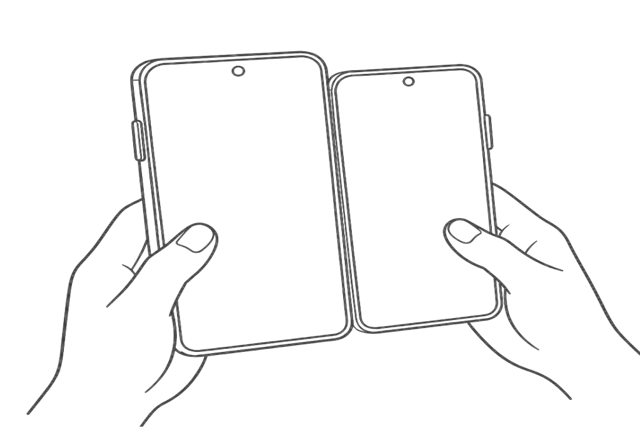
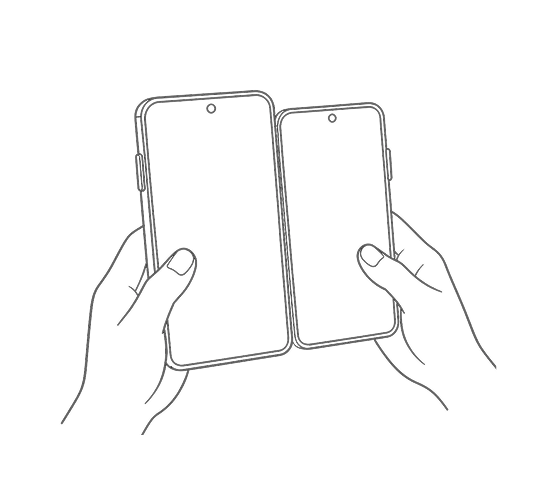
Equal-size guide images and PWA install support
- Swap in the two 540x480 guide frames; scale by width and remaining height
- Add manifest, offline service worker, and app icons
- Remove the unused guide-line.svg

diff --git a/index.html b/index.html
@@ -5,6 +5,11 @@
   <meta name="viewport" content="width=device-width, initial-scale=1, viewport-fit=cover">
   <meta name="theme-color" content="#22263a">
   <title>Galaxy Specs</title>
+  <link rel="manifest" href="manifest.webmanifest">
+  <link rel="apple-touch-icon" href="icons/apple-touch-icon.png">
+  <meta name="mobile-web-app-capable" content="yes">
+  <meta name="apple-mobile-web-app-capable" content="yes">
+  <meta name="apple-mobile-web-app-title" content="Galaxy Specs">
   <link rel="stylesheet" href="style.css">
 </head>
 <body>
@@ -21,17 +26,18 @@
       <div class="guide-track" id="guideTrack">
         <div class="guide-slide">
           <div class="guide-art">
-            <div class="guide-phone-box">
-              <img class="guide-phone" src="assets/guide-phone.png" alt="">
+            <div class="guide-frame">
+              <img src="assets/guide-phone.png" alt="">
               <img class="guide-glow" src="assets/guide-glow.svg" alt="">
-              <img class="guide-line" src="assets/guide-line.svg" alt="">
             </div>
           </div>
           <p class="guide-caption">Tap to see each spec,<br>one by one.</p>
         </div>
         <div class="guide-slide">
           <div class="guide-art">
-            <img class="guide-hands" src="assets/guide-hands.png" alt="">
+            <div class="guide-frame">
+              <img src="assets/guide-hands.png" alt="">
+            </div>
           </div>
           <p class="guide-caption">Place two phones<br>side by side to compare.</p>
         </div>

diff --git a/sw.js b/sw.js
@@ -1,0 +1,46 @@
+// Cache-first with background refresh: the app opens instantly and works offline,
+// and a new deploy shows up on the next open. Bump CACHE to drop old files at once.
+const CACHE = 'galaxy-specs-v1';
+const SHELL = [
+  './',
+  'index.html',
+  'style.css',
+  'script.js',
+  'specs.js',
+  'manifest.webmanifest',
+  'assets/guide-phone.png',
+  'assets/guide-hands.png',
+  'assets/guide-glow.svg',
+  'icons/icon-192.png',
+  'icons/icon-512.png',
+  'icons/apple-touch-icon.png',
+];
+
+self.addEventListener('install', (event) => {
+  event.waitUntil(caches.open(CACHE).then((cache) => cache.addAll(SHELL)).then(() => self.skipWaiting()));
+});
+
+self.addEventListener('activate', (event) => {
+  event.waitUntil(
+    caches.keys()
+      .then((keys) => Promise.all(keys.filter((key) => key !== CACHE).map((key) => caches.delete(key))))
+      .then(() => self.clients.claim()),
+  );
+});
+
+self.addEventListener('fetch', (event) => {
+  const { request } = event;
+  if (request.method !== 'GET' || new URL(request.url).origin !== self.location.origin) return;
+
+  event.respondWith(caches.open(CACHE).then(async (cache) => {
+    // ignoreSearch so ?device=s26 opens the cached page too
+    const cached = await cache.match(request, { ignoreSearch: true });
+    const fresh = fetch(request)
+      .then((response) => {
+        if (response.ok) cache.put(request, response.clone());
+        return response;
+      })
+      .catch(() => cached);
+    return cached || fresh;
+  }));
+});

diff --git a/style.css b/style.css
@@ -164,13 +164,11 @@ html, body {
   padding: 24px 0;
   container-type: size; /* lets the illustration scale to the height that is left */
 }
-/* Phone outline with the sun and horizon drawn over it; offsets are the Figma
-   positions inside the 210x316 phone box, as percentages so the box can scale. */
-.guide-phone-box { position: relative; height: min(316px, 100cqh); aspect-ratio: 210 / 316; }
-.guide-phone { width: 100%; height: 100%; object-fit: contain; }
-.guide-glow { position: absolute; left: 30.5%; top: 24.7%; width: 38.1%; animation: glow 3.2s ease-in-out infinite; }
-.guide-line { position: absolute; left: 24.3%; top: 74.7%; width: 50.5%; }
-.guide-hands { width: min(84vw, 303px); max-height: 100cqh; object-fit: contain; }
+/* Both illustrations are 540x480 frames, so the two slides keep the same footprint.
+   The sun glow is positioned over the phone in frame percentages. */
+.guide-frame { position: relative; width: min(100cqw, 540px, calc(100cqh * 540 / 480)); aspect-ratio: 540 / 480; }
+.guide-frame > img { display: block; width: 100%; height: 100%; object-fit: contain; }
+.guide-frame > .guide-glow { position: absolute; left: 38.7%; top: 25%; width: 22.6%; height: auto; animation: glow 3.2s ease-in-out infinite; }
 .guide-caption {
   min-height: 38px;
   font-size: 14px;

diff --git a/script.js b/script.js
@@ -212,8 +212,12 @@ const FX = {
   },
 };
 
+// Browser / status bar color follows the screen: light guide, dark everything else.
+const themeColor = document.querySelector('meta[name="theme-color"]');
+
 const render = () => {
   fxRoot.innerHTML = '';
+  themeColor.content = step < 0 ? '#eff9fc' : '#22263a';
   $('close').hidden = step < 0;
   if (step < 0) {
     show('guide');
@@ -323,3 +327,8 @@ $('close').addEventListener('click', (e) => {
 });
 
 detect().then((id) => (id ? start(id) : showPicker()));
+
+// Offline + installable (PWA). Needs HTTPS or localhost.
+if ('serviceWorker' in navigator) {
+  navigator.serviceWorker.register('sw.js').catch(() => { /* app still works online */ });
+}

diff --git a/CHANGELOG.md b/CHANGELOG.md
@@ -1,5 +1,9 @@
 # Changelog
 
+## 2026-11-10 (3)
+- Guide illustrations replaced with two equal-size 540x480 frames (`Frame 2147241148` → step 1 phone, `Frame 2147241147` → step 2 two phones), so slides keep the same footprint. `.guide-frame` scales by width and remaining height; the sun glow is overlaid on the phone in frame percentages. Removed `assets/guide-line.svg` (the horizon is now part of the image).
+- PWA: added `manifest.webmanifest` (standalone, portrait), `sw.js` (cache-first with background refresh, works offline), `icons/` (192, 512, apple-touch 180; placeholder blue-orb art), manifest/meta links in `index.html`, service worker registration in `script.js`. `theme-color` follows the screen (light guide, dark otherwise).
+
 ## 2026-11-10 (2)
 - Added the pre-experience guide from Figma "UX Orion EX App" (node 1007:15568), replacing the "Tap to start" screen.
   - `index.html` / `style.css`: "Compare S26 Series" title, two swipeable slides (phone outline with sun + horizon; two phones side by side) with captions, indicator dots, and a Start Compare button. Light gradient background.

diff --git a/README.md b/README.md
@@ -15,6 +15,10 @@ python3 -m http.server 8000
 
 The page opens on a two-step guide (swipe or tap the dots). Start Compare shows the first spec; tap anywhere to advance. The close button and the end screen return to the guide.
 
+## Install (PWA)
+
+Open the Pages URL on the phone, then Chrome menu → "Add to Home screen" / "Install app" (Samsung Internet: menu → "Add page to" → "Home screen"). Needs HTTPS, so it does not install from a LAN `http://` address. Once opened, the app files are cached and it works offline; a new deploy shows up the next time it opens. Bump `CACHE` in `sw.js` to force old files out.
+
 ## How it works
 
 - `specs.js` — `SCALES` (fixed min/max per spec, shared by all devices) and `DEVICES` (model-code prefixes + values). Add a device by adding an entry; no other code changes.
